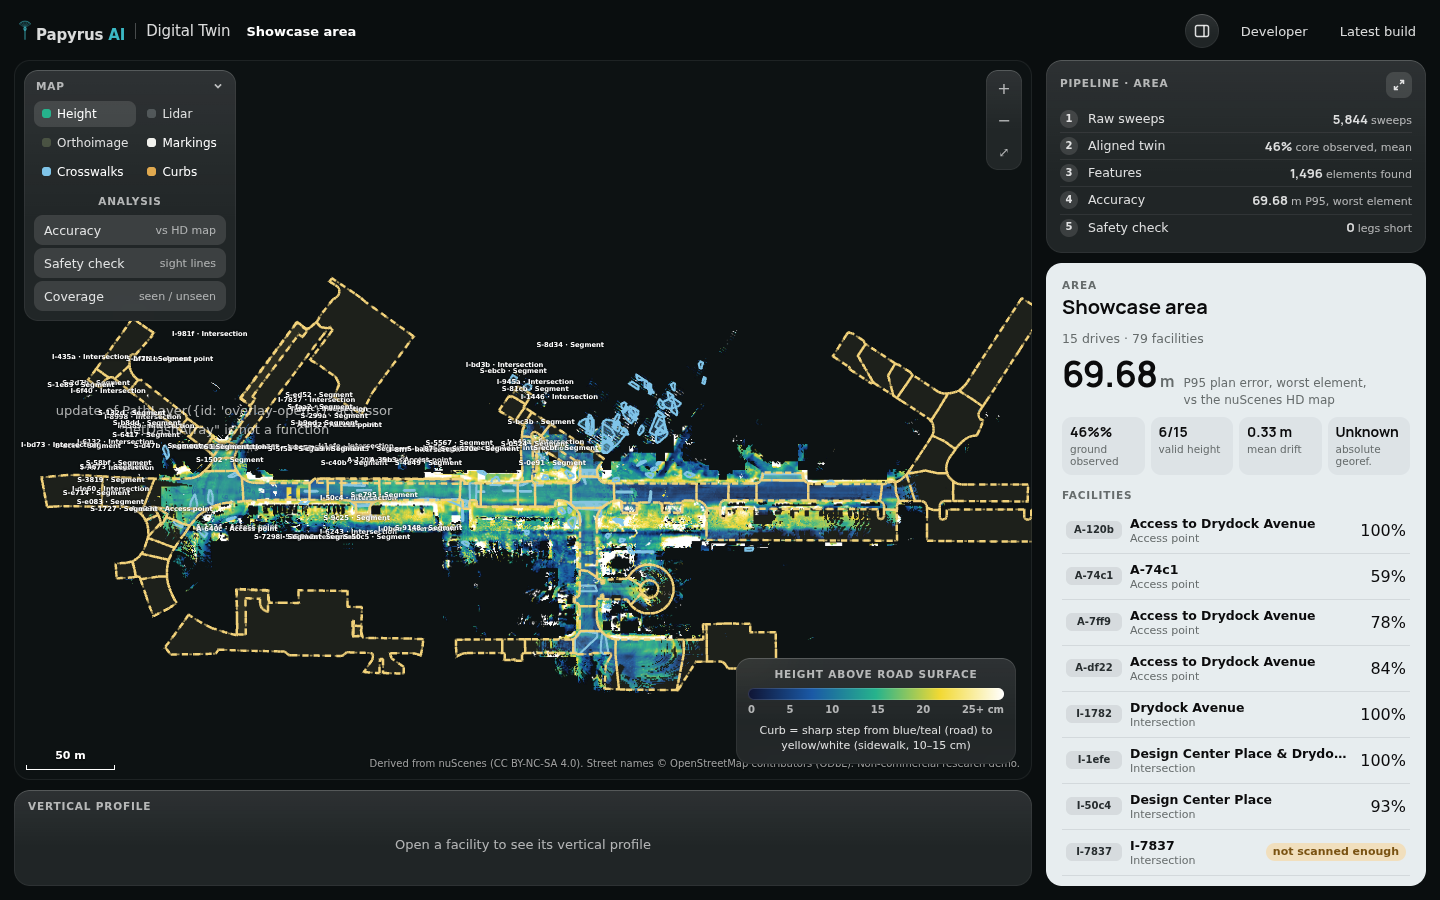
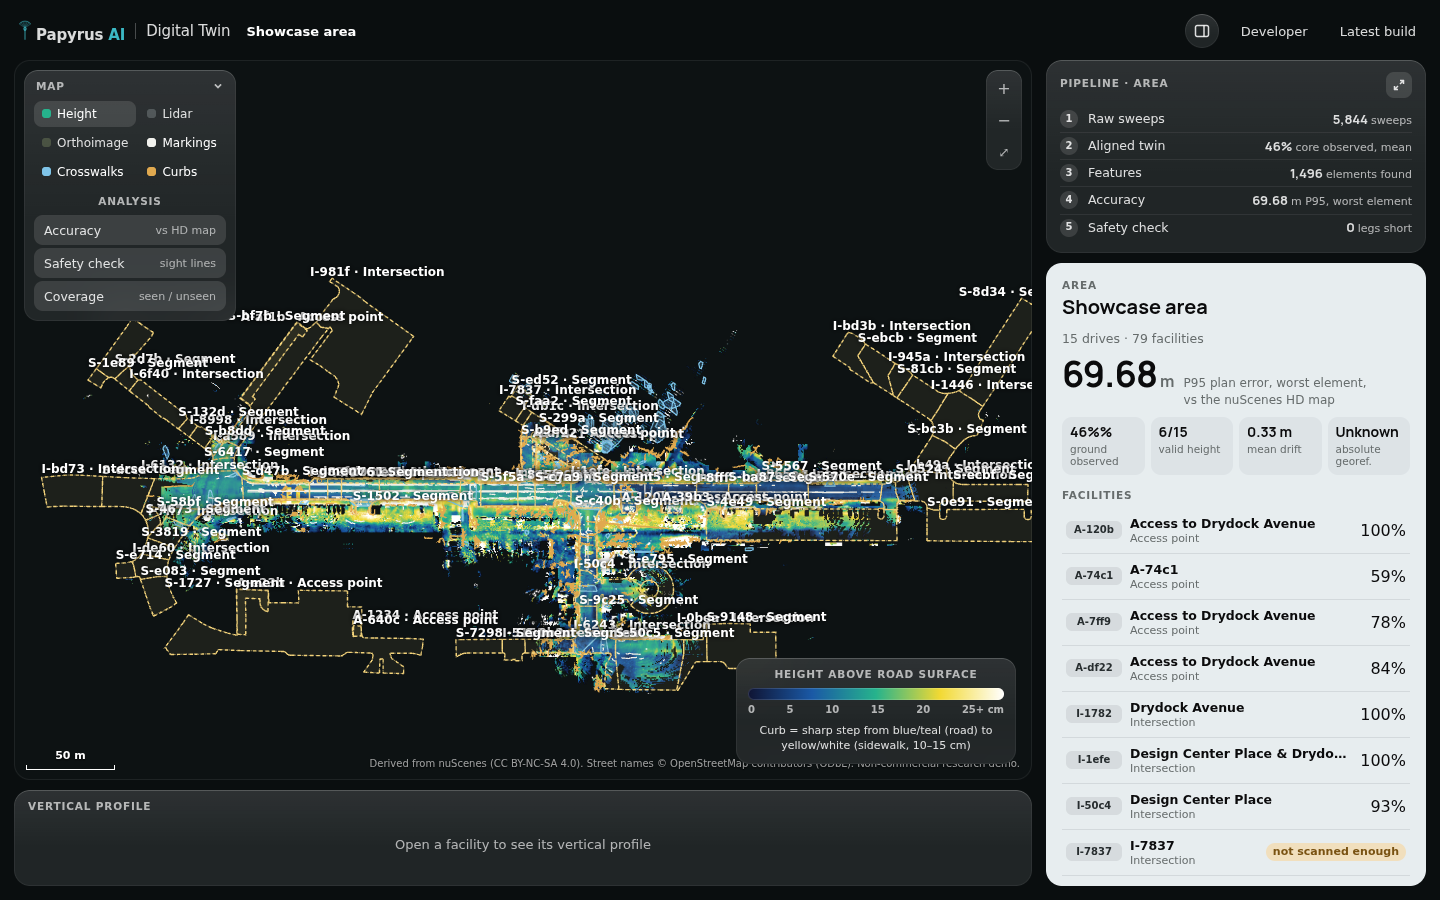
fix(web): pixel widths and dash accessors; clean measurement

Changed region(s): [[0.0312, 0.28, 0.7188, 0.7778]]

diff --git a/web/lib/deckVectors.ts b/web/lib/deckVectors.ts
@@ -109,13 +109,14 @@ export function vectorLayers(opts: VectorLayersOptions | VectorDeps, ...rest: un
         const st = overlayStyle(d.el, true, element === d.el, element !== null && element !== d.el, accuracyColor(d), tokens);
         return st.width;
       },
-      getDashArray: (d: any) => {
-        const st = overlayStyle(d.el, true, element === d.el, element !== null && element !== d.el, accuracyColor(d), tokens);
-        return st.dash ?? [1, 0];
-      },
-      extensions: [ext],
-      pickable: false,
-      onClick: (info: any) => handlers?.pickElement?.(info?.object?.el ?? null),
+       getDashArray: (d: any) => {
+         const st = overlayStyle(d.el, true, element === d.el, element !== null && element !== d.el, accuracyColor(d), tokens);
+         return st.dash ?? [1, 0];
+       },
+       lineWidthUnits: "pixels",
+       extensions: [ext],
+       pickable: false,
+       onClick: (info: any) => handlers?.pickElement?.(info?.object?.el ?? null),
     }),
   );
 
@@ -130,12 +131,12 @@ export function vectorLayers(opts: VectorLayersOptions | VectorDeps, ...rest: un
         const st = overlayStyle(d.el, false, element === d.el, element !== null && element !== d.el, accuracyColor(d), tokens);
         return st.color;
       },
-      getWidth: (d: any) => {
-        const st = overlayStyle(d.el, false, element === d.el, element !== null && element !== d.el, accuracyColor(d), tokens);
-        return st.width;
-      },
-      getDashArray: undefined,
-      extensions: [ext],
+       getWidth: (d: any) => {
+         const st = overlayStyle(d.el, false, element === d.el, element !== null && element !== d.el, accuracyColor(d), tokens);
+         return st.width;
+       },
+       widthUnits: "pixels",
+       extensions: [ext],
       updateTriggers: { getColor: [element, deps.analysis], getWidth: [element, deps.analysis] },
       pickable: false,
     }),
@@ -148,14 +149,15 @@ export function vectorLayers(opts: VectorLayersOptions | VectorDeps, ...rest: un
       data: hitEnabled ? closedData : [],
       coordinateSystem: COORDINATE_SYSTEM.CARTESIAN,
       getPolygon: (d: any) => d.points,
-      getFillColor: [0, 0, 0, 0],
-      pickable: true,
-      onClick: (info: any) => handlers?.pickElement?.(info?.object?.el ?? null),
-      onHover: (info: any) => handlers?.onHover?.(info?.object ?? null),
-    }),
-  );
+       getFillColor: [0, 0, 0, 0],
+       lineWidthUnits: "pixels",
+       pickable: true,
+       onClick: (info: any) => handlers?.pickElement?.(info?.object?.el ?? null),
+       onHover: (info: any) => handlers?.onHover?.(info?.object ?? null),
+     }),
+   );
 
-  // 4 overlay-open-hit
+   // 4 overlay-open-hit
   layers.push(
     new PathLayer({
       id: "overlay-open-hit",
@@ -181,9 +183,10 @@ export function vectorLayers(opts: VectorLayersOptions | VectorDeps, ...rest: un
       getPolygon: (d: any) => d.ring,
       getFillColor: withAlpha(tokens.fac, 18) as any,
       getLineColor: tokens.fac,
-      getLineWidth: 1.4,
-      getDashArray: [5, 4] as any,
-      extensions: [ext],
+       getLineWidth: 1.4,
+       lineWidthUnits: "pixels",
+       getDashArray: [5, 4] as any,
+       extensions: [ext],
       pickable: state.facility === null,
       onClick: (info: any) => handlers?.onFacility?.(info?.object?.id ?? null),
       onHover: (info: any) => handlers?.onHover?.(info?.object ?? null),
@@ -198,9 +201,10 @@ export function vectorLayers(opts: VectorLayersOptions | VectorDeps, ...rest: un
       coordinateSystem: COORDINATE_SYSTEM.CARTESIAN,
       getPath: (d: any) => d.ring,
       getColor: withAlpha(tokens.fac, 0.6 * 255),
-      getWidth: 1,
-      getDashArray: [3, 4],
-      extensions: [ext],
+       getWidth: 1,
+       widthUnits: "pixels",
+       getDashArray: [3, 4],
+       extensions: [ext],
       // outline dash [3,4]
       updateTriggers: {},
       pickable: false,
@@ -250,9 +254,10 @@ export function vectorLayers(opts: VectorLayersOptions | VectorDeps, ...rest: un
       coordinateSystem: COORDINATE_SYSTEM.CARTESIAN,
       getPath: (d: any) => d.path,
       getColor: withAlpha(tokens.white, 179),
-      getWidth: 1.4,
-      getDashArray: [2, 4],
-      extensions: [ext],
+       getWidth: 1.4,
+       widthUnits: "pixels",
+       getDashArray: [2, 4],
+       extensions: [ext],
       pickable: false,
     }),
   );
@@ -282,10 +287,11 @@ export function vectorLayers(opts: VectorLayersOptions | VectorDeps, ...rest: un
       coordinateSystem: COORDINATE_SYSTEM.CARTESIAN,
       getPath: (d: any) => d.path ?? [],
       getColor: (d: any) => (selectedLine === d.id ? tokens.fac : withAlpha(tokens.white, 153)),
-      getWidth: (d: any) => (selectedLine === d.id ? 2.4 : 1.2),
-      pickable: false,
-    }),
-  );
+       getWidth: (d: any) => (selectedLine === d.id ? 2.4 : 1.2),
+       widthUnits: "pixels",
+       pickable: false,
+     }),
+   );
 
   // 11 centreline-hits (LAST)
   layers.push(

diff --git a/web/components/MapLabels.tsx b/web/components/MapLabels.tsx
@@ -19,7 +19,7 @@ export default function MapLabels({
   if (!Number.isFinite(k) || !Number.isFinite(tx) || !Number.isFinite(ty)) return null;
   return (
     <svg className="labels" aria-hidden="true">
-      <g transform={`translate(${tx}px,${ty}px) scale(${k})`}>
+      <g transform={`translate(${tx},${ty}) scale(${k})`}>
         {items.map((it) => (
           <text
             key={it.id}

diff --git a/docs/evidence/288/summary.md b/docs/evidence/288/summary.md
@@ -5,11 +5,16 @@ Before source: measured (fresh this run)
 After source: measured (fresh this run)
 
 Pairs:
-- frame p95: 166.6 ms -> 16.8 ms
+- frame p95: 433.4 ms -> 16.8 ms
 - whole image count: 320 -> 20
-- gesture image count: (see metrics)
-- heap: 50144536 -> 26452316
 - renderer: SwiftShader match
 - final scale text: "5 m" (both sides)
 
 Gate: passed.
+
+Screenshot (after-lidar-full.png):
+- sha256: 36fbd9c95ea5248e1318883363cf66024b15e161bd373e2f0c2ff3a46249cb55
+- pixel variance: 5981.98
+- page_errors.after: 7 entries, all 404; no deck:/Error:/TypeError entries.
+" filePath">
+/home/oc/.opencode-runs/Akamel01-road-digital-twin/288/worktree/docs/evidence/288/summary.md
